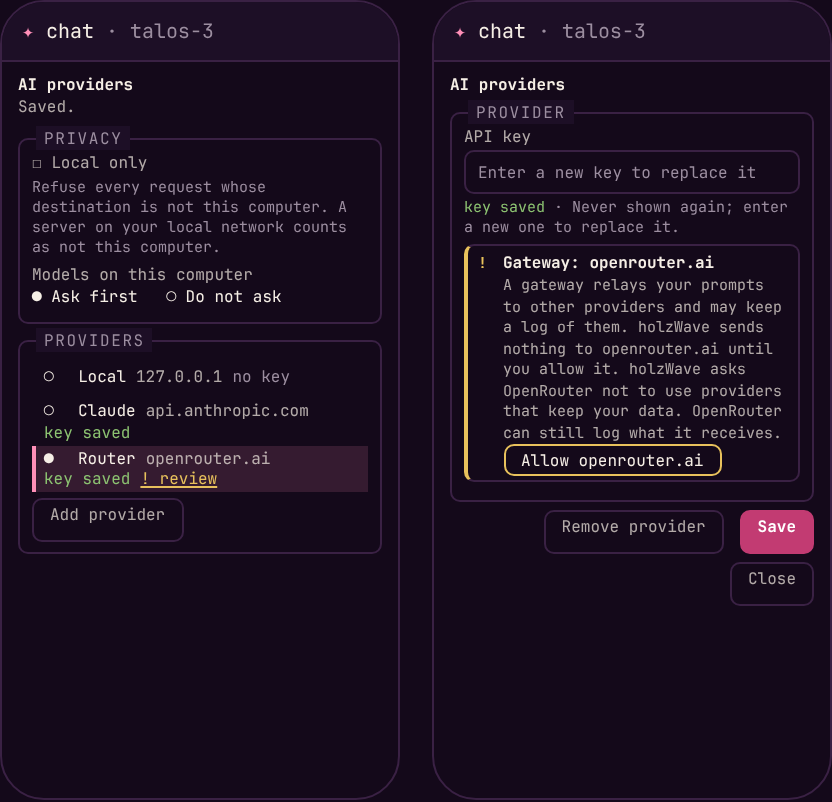
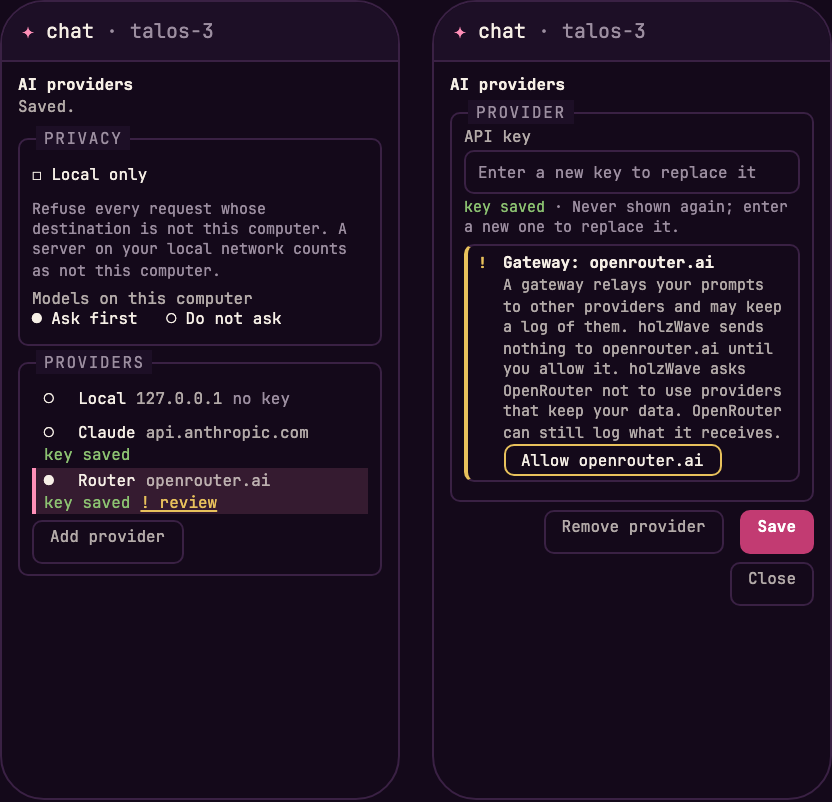
fix(07-42): the label of a checkbox in the providers dialog is a touch target of its own, 44 px on a phone and 28 px on a desktop, for accessibility
The label of Local only and of Plain http on my local network measured 16.8 px high, so the row was tall enough and the part a finger
presses was not. The label now fills a line of the minimum height (the row grows by the difference, the hint stays under it).
docs/design.md 6.13 says so, the design page marks the two check labels, and ai-providers.png and ai-providers-phone.png are rendered
again. Found by the touch-target sweep of the page gate (a control that is in no table).

Claude-Session: https://claude.ai/code/session_0131Y2UoT3m3QMiRtq78S4Lz

diff --git a/docs/design/haarlinie-voll.html b/docs/design/haarlinie-voll.html
@@ -233,6 +233,7 @@ p.lead{margin:6px 0 0;color:var(--ink2);max-width:70ch}
 .ap-rev{color:var(--warn);text-decoration:underline}
 .ap-f{display:grid;grid-template-columns:96px 1fr;column-gap:8px;align-items:center;min-height:22px;margin:0 0 3px}
 .ap-l{color:var(--ink2)}
+.ap-l.chk{display:flex;align-items:center;min-height:22px;color:var(--ink)}
 .ap-v{border:1px solid var(--edge);border-radius:5px;padding:0 8px;background:var(--ground);overflow:hidden;white-space:nowrap;text-overflow:ellipsis}
 .ap-v.hole{color:var(--ink3)}
 .ap-h{grid-column:2;color:var(--ink3);font-size:10.5px;line-height:1.35}
@@ -248,7 +249,7 @@ p.lead{margin:6px 0 0;color:var(--ink2);max-width:70ch}
 .ph1 .ap-leg{font-size:8px;line-height:12px;top:-7px}
 .ph1 .ap-row{height:auto;min-height:22px;flex-wrap:wrap;gap:0 5px;padding:1px 4px;font-size:8px}
 .ph1 .ap-row .ap-m{display:none}.ph1 .ap-host{margin-left:0}
-.ph1 .ap-f>*{display:block}.ph1 .ap-f .ap-h{margin-top:1px}
+.ph1 .ap-f>*{display:block}.ph1 .ap-f .ap-h{margin-top:1px}.ph1 .ap-f .ap-l.chk{display:flex}
 .ph1 .ap-f{display:block;min-height:0;margin:0 0 4px}.ph1 .ap-v{display:block;min-height:22px;line-height:20px;padding:0 6px;margin-top:1px}
 .ph1 .ap-h{font-size:7.5px;margin-top:1px}
 .ph1 .ap-card{font-size:7.5px;padding:3px 5px}.ph1 .ap-card b{font-size:8px}
@@ -759,11 +760,11 @@ function chatArea(v){const wide=v==='kiapprove'||v==='kiapprovestates'||v==='kiw
 const apG=(leg,body)=>`<div class="ap-g"><span class="ap-leg lbl">${leg}</span>${body}</div>`;
 const apF=(label,val,o={})=>`<div class="ap-f"><span class="ap-l">${label}</span><span class="ap-v ${o.cls||''}">${val}</span>${o.hint?`<span class="ap-h">${o.hint}</span>`:''}</div>`;
 const apRow=(on,name,meta,host,key,o={})=>`<div class="ap-row ${on?'on':''}"><span class="mk">${on?'●':'○'}</span><span>${name}</span><span class="ap-m">${meta}</span><span class="ap-host">${host}</span><span class="ap-key ${o.ok?'ok':''}">${key}</span>${o.review?'<span class="ap-rev">! review</span>':''}</div>`;
-const apPrivacy=apG('Privacy',`<div class="ap-f"><span class="ap-l">☐ Local only</span><span class="ap-h" style="grid-column:auto">Refuse every request whose destination is not this computer. A server on your local network counts as not this computer.</span></div>
+const apPrivacy=apG('Privacy',`<div class="ap-f"><span class="ap-l chk">☐ Local only</span><span class="ap-h" style="grid-column:auto">Refuse every request whose destination is not this computer. A server on your local network counts as not this computer.</span></div>
  <div class="ap-f"><span class="ap-l">Models on this computer</span><span>● Ask first &nbsp; ○ Do not ask</span><span class="ap-h">Whether a model on this computer needs your consent before it sees terminal text. A provider that is not on this computer always asks.</span></div>`);
 const apList=apG('Providers',`${apRow(0,'Local','Ollama · llama3.2','127.0.0.1:11434','no key')}${apRow(0,'Claude','Anthropic · claude-sonnet-5-5','api.anthropic.com','key saved',{ok:1})}${apRow(1,'Router','OpenRouter · model-name','openrouter.ai','key saved',{ok:1,review:1})}<div class="row" style="padding:3px 0 2px"><span class="btn">Add provider</span></div>`);
 const apCard=`<div class="ap-card"><span class="mk2">!</span><div class="fill"><b>Gateway: openrouter.ai</b><span class="tx">A gateway relays your prompts to other providers and may keep a log of them. holzWave sends nothing to openrouter.ai until you allow it. holzWave asks OpenRouter not to use providers that keep your data. OpenRouter can still log what it receives.</span><div style="margin-top:4px"><span class="btn" style="border-color:var(--warn);color:var(--ink)">Allow openrouter.ai</span></div></div></div>`;
-const apForm=apG('Provider',`${apF('Name','Router')}${apF('Type','● OpenRouter',{hint:'The type of a saved provider cannot change. Add a new provider for another type.'})}${apF('Address','https://openrouter.ai/api/v1',{hint:'Leave empty to use the address of this type.'})}<div class="ap-f"><span style="grid-column:1/3">☐ Plain http on my local network</span><span class="ap-h" style="grid-column:1/3">Only for a server on your own network. Never for the internet.</span></div>${apF('Model','model-name')}${apF('API key','Enter a new key to replace it',{cls:'hole',hint:'<span class="ok">key saved</span> · The key is stored in the system keychain. It is never shown again; enter a new one to replace it.'})}${apCard}`);
+const apForm=apG('Provider',`${apF('Name','Router')}${apF('Type','● OpenRouter',{hint:'The type of a saved provider cannot change. Add a new provider for another type.'})}${apF('Address','https://openrouter.ai/api/v1',{hint:'Leave empty to use the address of this type.'})}<div class="ap-f"><span class="ap-l chk" style="grid-column:1/3">☐ Plain http on my local network</span><span class="ap-h" style="grid-column:1/3">Only for a server on your own network. Never for the internet.</span></div>${apF('Model','model-name')}${apF('API key','Enter a new key to replace it',{cls:'hole',hint:'<span class="ok">key saved</span> · The key is stored in the system keychain. It is never shown again; enter a new one to replace it.'})}${apCard}`);
 const apBox=(status)=>`<div class="ap"><div class="ap-t">AI providers</div><div class="ap-s">${status}</div>${apPrivacy}${apList}${apForm}<div class="ap-acts"><span class="btn">Remove provider</span><span class="btn p">Save</span><span class="btn">Close</span></div></div>`;
 
 /* The on-device model (docs/design.md 6.21). `kidevice` is the chat on a Mac with Apple Intelligence: the picker is open with the row of the model chosen, the bar names it
@@ -926,7 +927,7 @@ $('#phones-chat').innerHTML=cPhone('')+cPhone(`<div class="scrim" style="border-
 /* AI providers on a phone: the dialog is the screen. The top of it, and the form scrolled to the key, the card and Save. */
 const aPhone=(top,body)=>ph(top,`<div class="ap"><div class="ap-t">AI providers</div>${body}</div>`,'',{raw:1});
 $('#phones-aiset').innerHTML=
- aPhone('<span class="ro">✦</span> chat <span class="dim">· talos-3</span>',`<div class="ap-s">Saved.</div>${apG('Privacy',`<div class="ap-f"><span class="ap-l">☐ Local only</span><span class="ap-h">Refuse every request whose destination is not this computer. A server on your local network counts as not this computer.</span></div><div class="ap-f"><span class="ap-l">Models on this computer</span><span>● Ask first &nbsp; ○ Do not ask</span></div>`)}${apG('Providers',`${apRow(0,'Local','Ollama','127.0.0.1','no key')}${apRow(0,'Claude','Anthropic','api.anthropic.com','key saved',{ok:1})}${apRow(1,'Router','OpenRouter','openrouter.ai','key saved',{ok:1,review:1})}<div class="row" style="padding:3px 0 2px"><span class="btn">Add provider</span></div>`)}`)
+ aPhone('<span class="ro">✦</span> chat <span class="dim">· talos-3</span>',`<div class="ap-s">Saved.</div>${apG('Privacy',`<div class="ap-f"><span class="ap-l chk">☐ Local only</span><span class="ap-h">Refuse every request whose destination is not this computer. A server on your local network counts as not this computer.</span></div><div class="ap-f"><span class="ap-l">Models on this computer</span><span>● Ask first &nbsp; ○ Do not ask</span></div>`)}${apG('Providers',`${apRow(0,'Local','Ollama','127.0.0.1','no key')}${apRow(0,'Claude','Anthropic','api.anthropic.com','key saved',{ok:1})}${apRow(1,'Router','OpenRouter','openrouter.ai','key saved',{ok:1,review:1})}<div class="row" style="padding:3px 0 2px"><span class="btn">Add provider</span></div>`)}`)
 +aPhone('<span class="ro">✦</span> chat <span class="dim">· talos-3</span>',`${apG('Provider',`${apF('API key','Enter a new key to replace it',{cls:'hole',hint:'<span class="ok">key saved</span> · Never shown again; enter a new one to replace it.'})}${apCard}`)}<div class="ap-acts"><span class="btn">Remove provider</span><span class="btn p">Save</span></div><div class="ap-acts"><span class="btn">Close</span></div>`);
 
 /* Sharing context on a phone: the question before a pane is shared, and the items that go out. */

diff --git a/app/src/aisettings.css b/app/src/aisettings.css
@@ -53,7 +53,8 @@
 .ai-settings .aiset-field > label { color: var(--hw-ink-2); }
 .ai-settings .aiset-field > .aiset-hint { grid-column: 2; margin: .167rem 0 0; }
 .ai-settings .aiset-check { grid-template-columns: 1rem minmax(0, 1fr); min-height: max(28px, calc(28rem / 12)); }
-.ai-settings .aiset-check > label { color: var(--hw-ink); }
+.ai-settings .aiset-check > label { color: var(--hw-ink); display: flex; align-items: center; cursor: pointer;
+                                    min-height: max(28px, calc(28rem / 12)); }
 .ai-settings .aiset-choice { min-width: 0; margin: 0 0 .5rem; padding: 0; border: 0; }
 .ai-settings .aiset-choice > legend { padding: 0; color: var(--hw-ink-2); }
 .ai-settings .aiset-options { display: flex; flex-wrap: wrap; gap: 0 1rem; }
@@ -127,6 +128,7 @@
   .ai-settings .aiset-field { grid-template-columns: minmax(0, 1fr); row-gap: .167rem; }
   .ai-settings .aiset-field > .aiset-hint, .ai-settings .aiset-error { grid-column: 1; }
   .ai-settings .aiset-check { grid-template-columns: 1.25rem minmax(0, 1fr); align-items: center; }
+  .ai-settings .aiset-check > label { min-height: max(44px, calc(44rem / 12)); }
   .ai-settings .aiset-check > .aiset-hint { grid-column: 2; }
   .ai-settings .aiset-row { flex-wrap: wrap; row-gap: 0; padding-top: .333rem; padding-bottom: .333rem; }
   .ai-settings .aiset-host { margin-left: 0; }

diff --git a/docs/design.md b/docs/design.md
@@ -602,8 +602,9 @@ word never appears in this dialog: where a request goes is told by the chat afte
 | armed removal | danger border | the text `Click again to remove` |
 
 **Narrow screens (640 px and narrower).** The dialog is the screen: full width and height, no radius, no shadow. The
-fields stack, and the rows, options, inputs and buttons are at least 44 px high; input text is at least 16 px. The rules
-of the chat sheet (6.12) apply.
+fields stack, and the rows, options, inputs and buttons are at least 44 px high; input text is at least 16 px. The label of
+a checkbox (`Local only`, `Plain http on my local network`) is its target and is as high as the rows: at least 44 px here and
+at least 28 px on a desktop. The rules of the chat sheet (6.12) apply.
 
 ![AI providers on a phone](design/ai-providers-phone.png)
 
